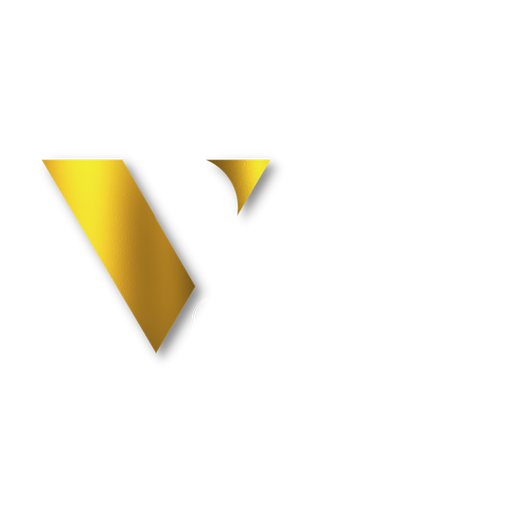
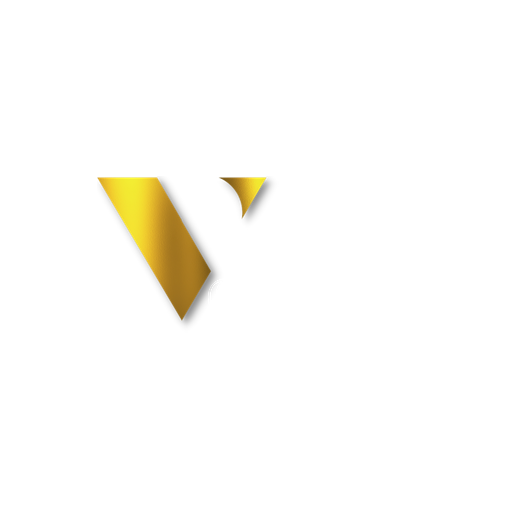
manifest

Changed region(s): [[0.0625, 0.3125, 0.4375, 0.7188], [0.4062, 0.3125, 0.5625, 0.4375]]

diff --git a/src/pages/Dashboard.jsx b/src/pages/Dashboard.jsx
@@ -529,9 +529,12 @@ export default function Dashboard() {
             <CardContent>
               <div className="h-80">
                 {chartData.length < 2 ? (
-                  <div className="h-full flex flex-col items-center justify-center gap-2">
-                    <p className={`text-sm ${bodyMuted}`}>Not enough NAV data to plot a chart yet.</p>
-                    <p className={`text-xs ${bodyMuted} opacity-60`}>Data will appear once at least two monthly NAV records exist for your fund.</p>
+                  <div className="h-full flex flex-col items-center justify-center gap-3 text-center px-6">
+                    <TrendingUp className={`w-10 h-10 ${bodyMuted} opacity-40`} />
+                    <p className={`text-sm font-medium ${sectionTitle}`}>Your chart will appear soon</p>
+                    <p className={`text-xs ${bodyMuted} max-w-xs`}>
+                      We're still collecting data on your investment. Once we have a couple of months on record, you'll see your growth here.
+                    </p>
                   </div>
                 ) : (
                 <ResponsiveContainer width="100%" height="100%">

diff --git a/dev-dist/sw.js b/dev-dist/sw.js
@@ -81,7 +81,7 @@ define(['./workbox-7e5eb42b'], (function (workbox) { 'use strict';
     "revision": "3ca0b8505b4bec776b69afdba2768812"
   }, {
     "url": "index.html",
-    "revision": "0.mu4fecuig3g"
+    "revision": "0.456aimga518"
   }], {});
   workbox.cleanupOutdatedCaches();
   workbox.registerRoute(new workbox.NavigationRoute(workbox.createHandlerBoundToURL("index.html"), {

diff --git a/index.html b/index.html
@@ -4,6 +4,7 @@
     <meta charset="UTF-8" />
     <link rel="icon" type="image/png" href="/VC logo black bg.png" media="(prefers-color-scheme: dark)" />
     <link rel="icon" type="image/png" href="/vc logo black .png" media="(prefers-color-scheme: light)" />
+    <link rel="apple-touch-icon" href="/apple-touch-icon.png" />
     <meta name="viewport" content="width=device-width, initial-scale=1.0" />
     <title>varma-capital-investor-hub</title>
   </head>